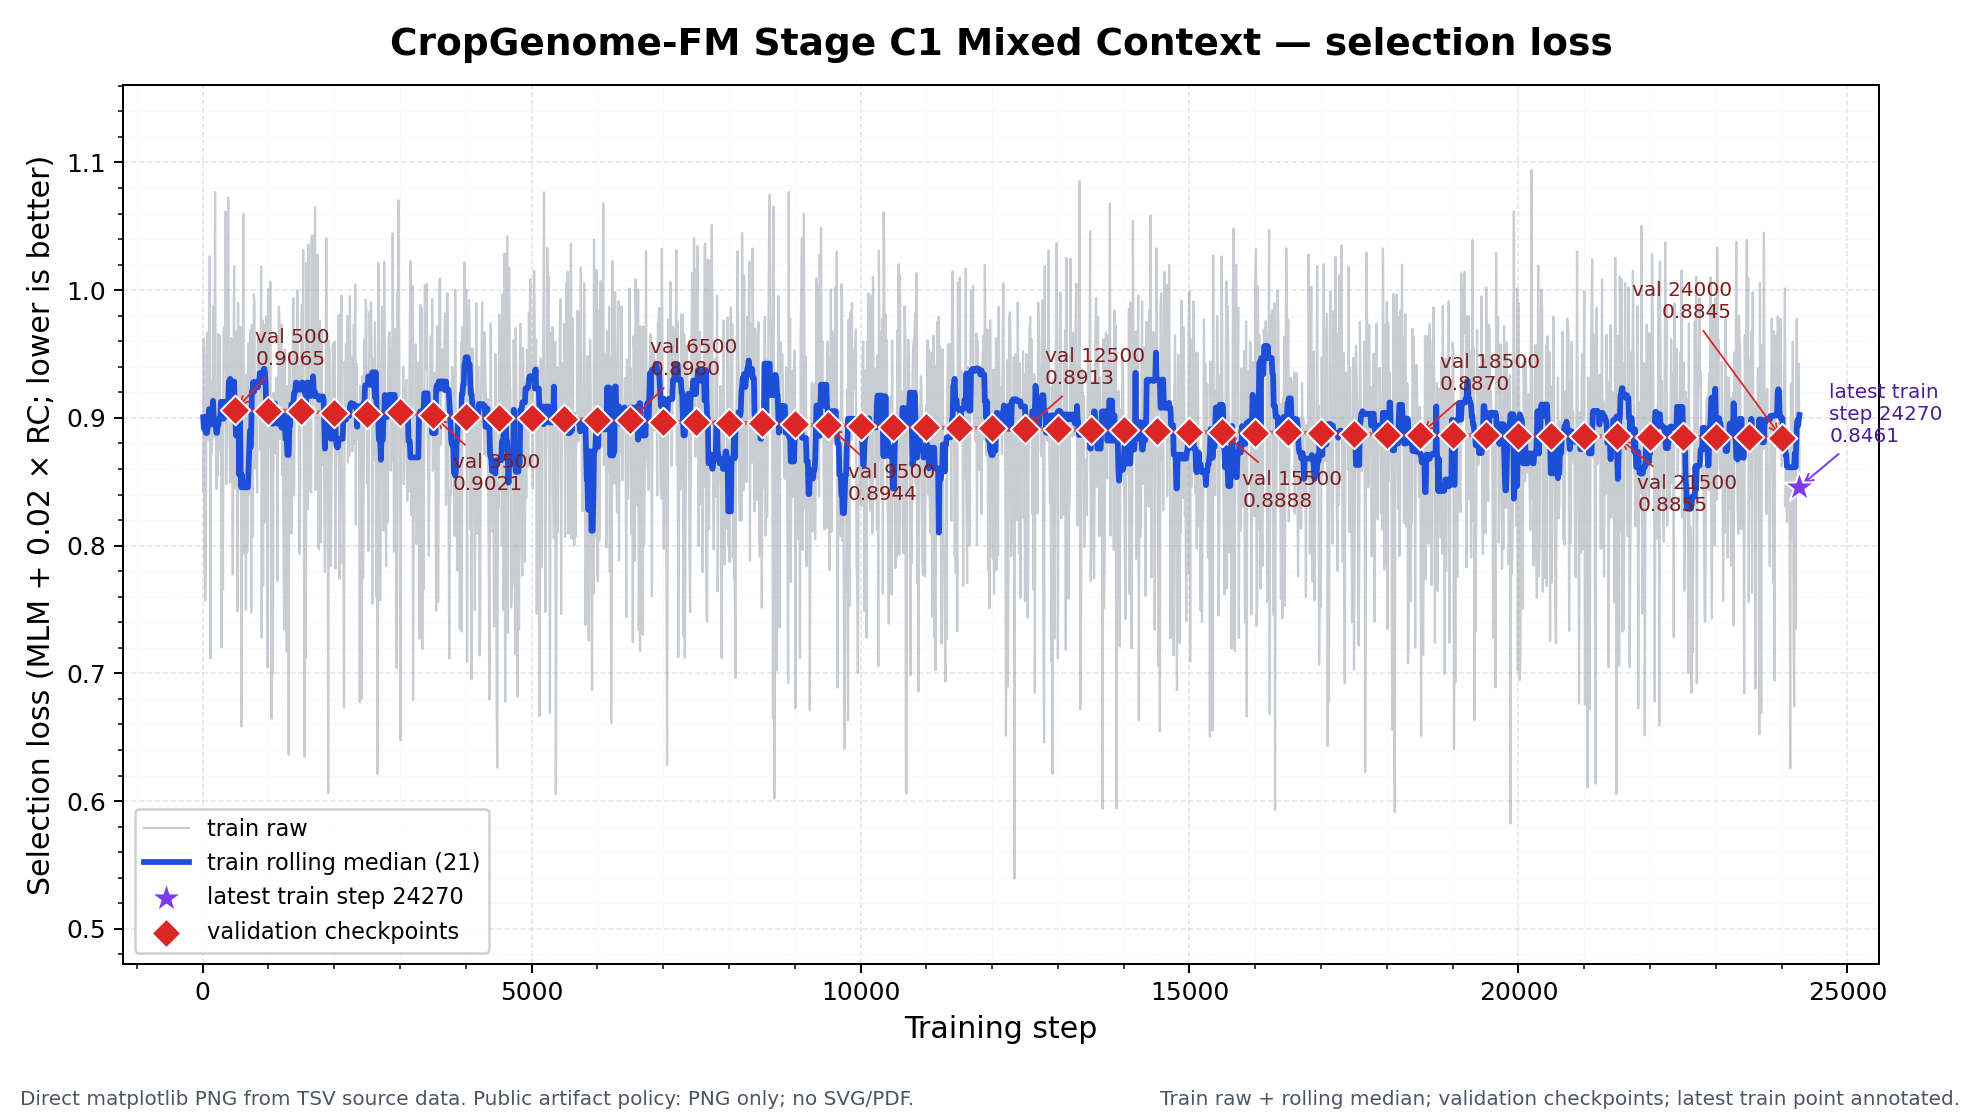
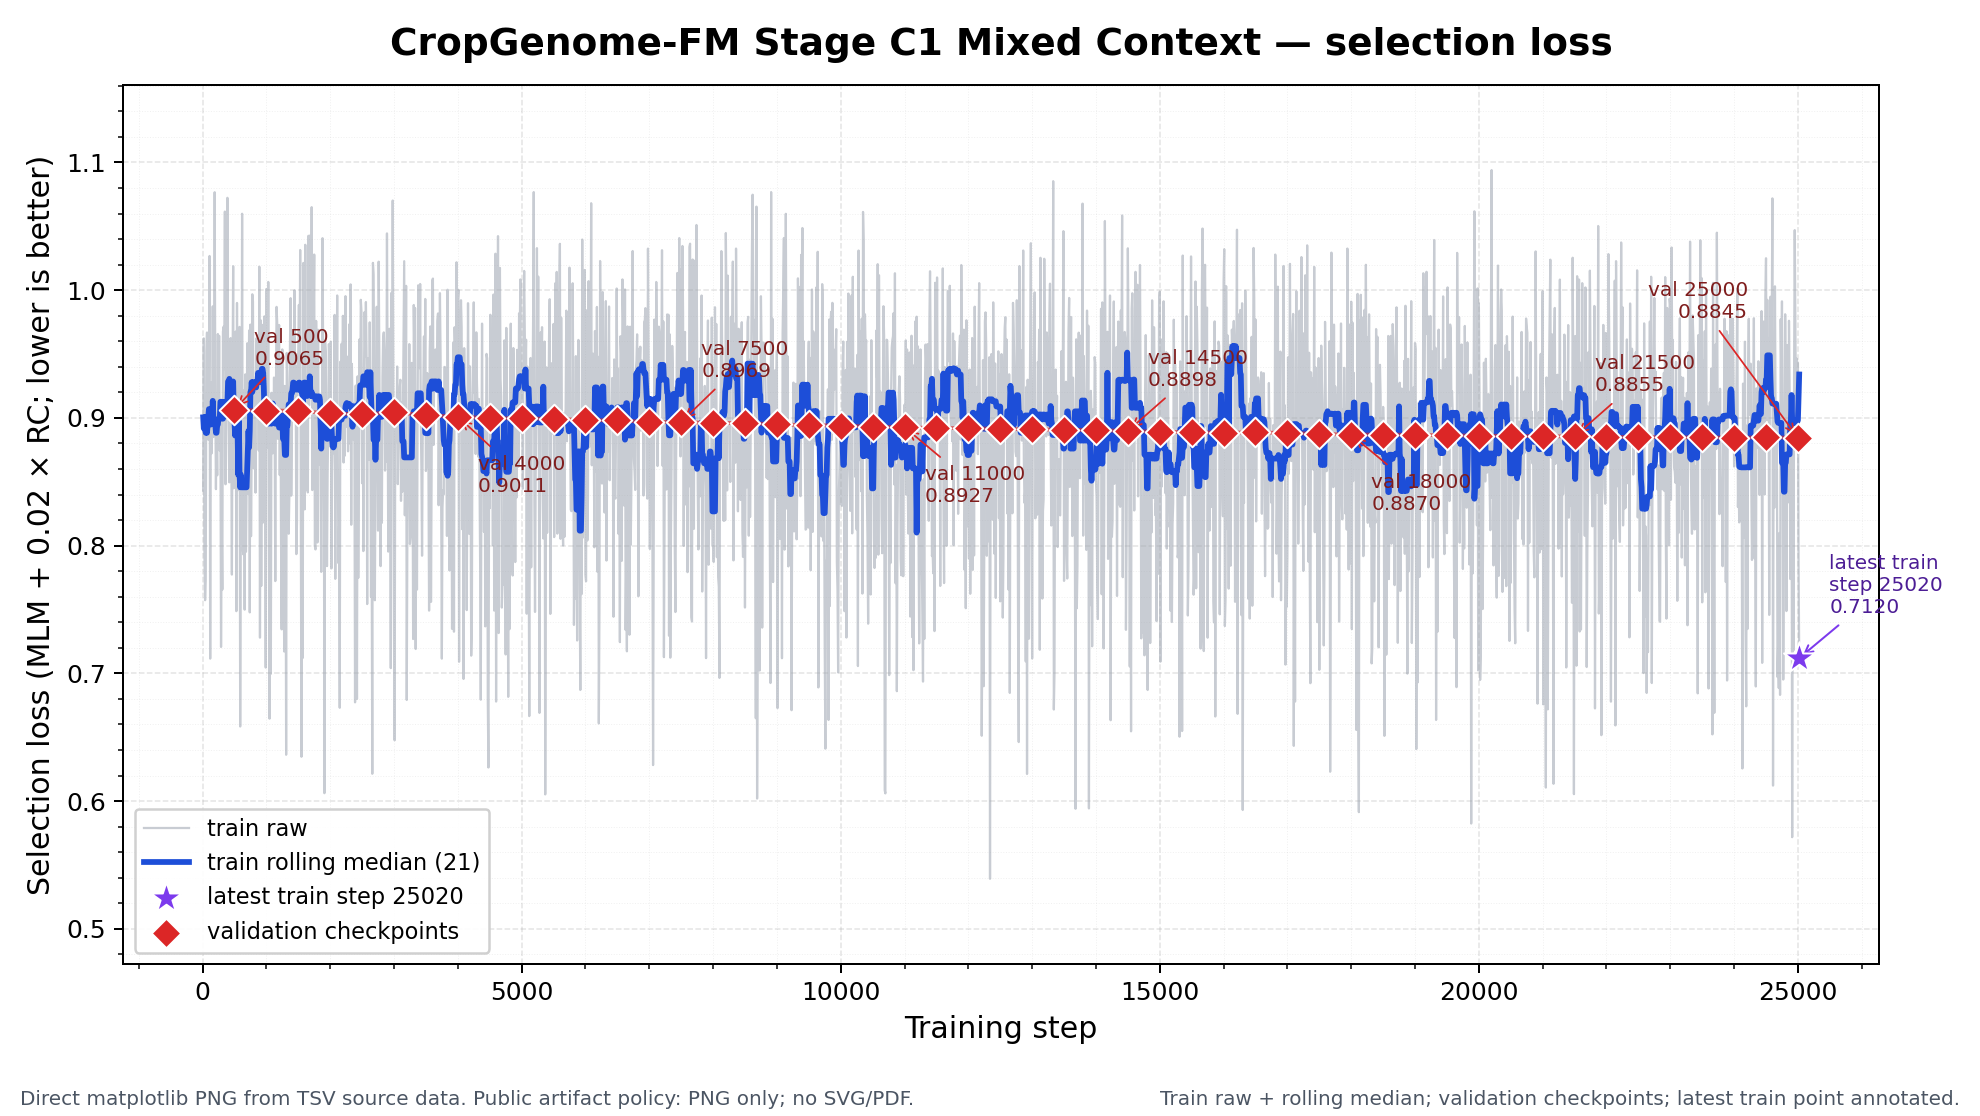
docs: update training progress with Stage C1 early-stop and resume to 75k

diff --git a/docs/downstream_v4/README_CN.md b/docs/downstream_v4/README_CN.md
@@ -1,6 +1,6 @@
 # CropGenome-FM 下游 v4：公开状态说明
 
-更新时间：2026-08-10 15:57 CST
+更新时间：2026-08-11 09:50 CST
 
 本页提供下游 v4 的轻量公开状态。仓库只保存可阅读的任务、来源、模型注册表及进展快照，不上传checkpoint、公共模型权重、数据集、embedding、逐样本预测、日志或完整运行目录。
 
@@ -13,9 +13,9 @@
 - 当前checkpoint集合：Stage B step40000、45000、50000。
 - 冻结矩阵：1572行、251个GPU组；每项使用5个随机种子；内部预训练消融不进入本轮。
 
-2026-08-10 15:57 CST快照：107/1572行、9/251个GPU组闭合，终止失败0。CPU-only下游任务在gpu05本机CPU执行：调度daemon运行中，1个worker活跃、52行就绪，全部隐藏CUDA设备、按内存限流；SLURM q05提交已禁用。GPU端健康卡动态派发已经恢复，4个组持有显存/主机内存claim并计算，另1个组等待主机内存。
+2026-08-11 09:50 CST快照：108/1572行、9/251个GPU组闭合，终止失败0。CPU/GPU新任务因gpu05主机内存不足等待；B4:00.0故障卡保持隔离。
 
-最终审计当前为`BLOCKED`：14/14公共模型正式smoke回执和执行授权已经完成，剩余blocker是实现哈希漂移与矩阵未闭合。gpu05的B4:00.0故障卡保持隔离，NVML可见其余7/8块卡；健康卡的新CUDA上下文和连续动态派发已经通过实跑验证。当前GPU embedding提取占用大量主机内存，CPU-only新行和一个额外GPU组等待内存；单个长期claim等待仍会限制后续派发。
+最终审计`BLOCKED`：14/14正式smoke完成，blocker=实现哈希漂移+矩阵未闭合。gpu05主机内存不足限制新任务。
 
 轻量状态：`docs/training_progress/source_data/stage_b_checkpoint_set_downstream_status.tsv`
 
